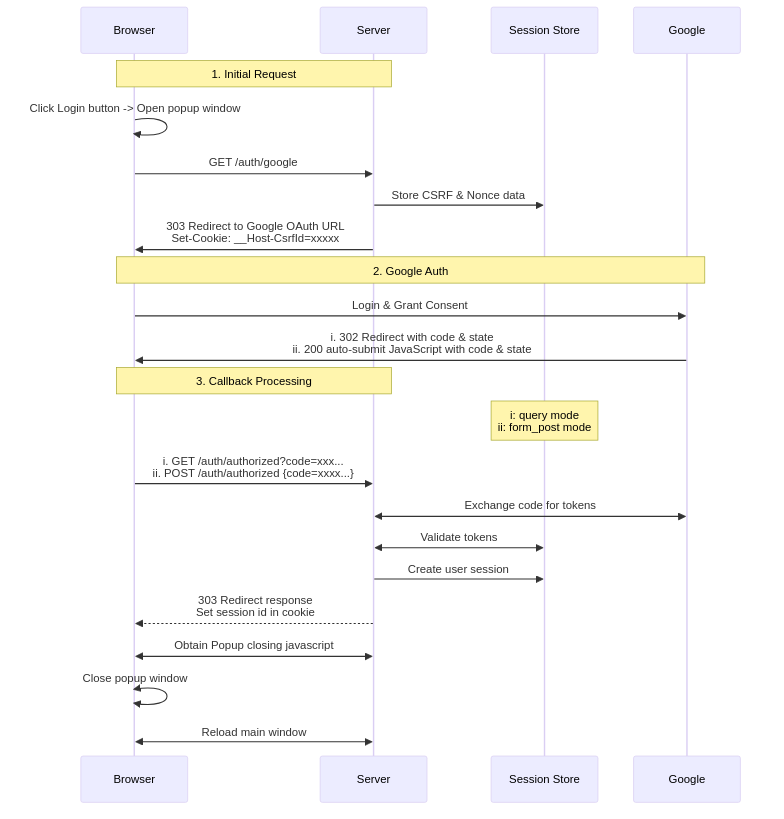
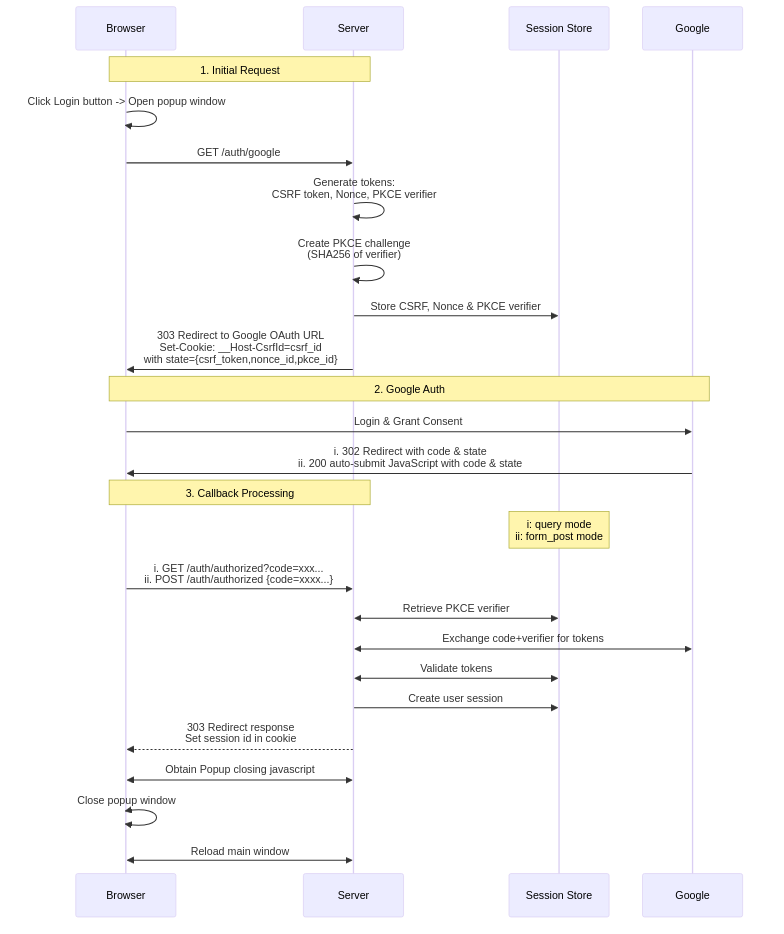
Reflected PKCE integration

diff --git a/2024/Axum-Google-OAuth2-Login/Readme.en.html b/2024/Axum-Google-OAuth2-Login/Readme.en.html
@@ -23,6 +23,7 @@ Callback</a></li>
 <ul>
 <li><a href="#nonce-validation">Nonce Validation</a></li>
 <li><a href="#csrf-protection">CSRF Protection</a></li>
+<li><a href="#pkce-validation">PKCE Validation</a></li>
 <li><a href="#cookie-security">Cookie Security</a></li>
 <li><a href="#response-mode-security">Response Mode Security</a></li>
 <li><a
@@ -112,6 +113,9 @@ URLs.</li>
 <li><strong><code>scope</code></strong>: Requested <code>openid</code>,
 <code>email</code>, and <code>profile</code> for user identity and basic
 information.</li>
+<li><strong><code>code_challenge</code></strong> and
+<strong><code>code_challenge_method</code></strong>: Implements PKCE for
+secure code exchange.</li>
 </ul>
 <p>These parameters are essential for controlling the authentication
 flow and ensuring security.</p>
@@ -184,42 +188,57 @@ class="sourceCode rust"><code class="sourceCode rust"><span id="cb5-1"><a href="
 <span id="cb5-4"><a href="#cb5-4" aria-hidden="true" tabindex="-1"></a>    headers<span class="op">:</span> HeaderMap<span class="op">,</span></span>
 <span id="cb5-5"><a href="#cb5-5" aria-hidden="true" tabindex="-1"></a>) <span class="op">-&gt;</span> <span class="dt">Result</span><span class="op">&lt;</span><span class="kw">impl</span> IntoResponse<span class="op">,</span> AppError<span class="op">&gt;</span> <span class="op">{</span></span>
 <span id="cb5-6"><a href="#cb5-6" aria-hidden="true" tabindex="-1"></a>    <span class="co">// Generate and store security tokens</span></span>
-<span id="cb5-7"><a href="#cb5-7" aria-hidden="true" tabindex="-1"></a>    <span class="kw">let</span> (csrf_token<span class="op">,</span> csrf_id) <span class="op">=</span> generate_store_token(<span class="st">&quot;csrf_session&quot;</span><span class="op">,</span> expires_at<span class="op">,</span> <span class="cn">Some</span>(user_agent))<span class="op">;</span></span>
-<span id="cb5-8"><a href="#cb5-8" aria-hidden="true" tabindex="-1"></a>    <span class="kw">let</span> (nonce_token<span class="op">,</span> nonce_id) <span class="op">=</span> generate_store_token(<span class="st">&quot;nonce_session&quot;</span><span class="op">,</span> expires_at<span class="op">,</span> <span class="cn">None</span>)<span class="op">;</span></span>
-<span id="cb5-9"><a href="#cb5-9" aria-hidden="true" tabindex="-1"></a></span>
-<span id="cb5-10"><a href="#cb5-10" aria-hidden="true" tabindex="-1"></a>    <span class="co">// Combine tokens into a state parameter</span></span>
-<span id="cb5-11"><a href="#cb5-11" aria-hidden="true" tabindex="-1"></a>    <span class="kw">let</span> encoded_state <span class="op">=</span> encode_state(csrf_token<span class="op">,</span> nonce_id)<span class="op">;</span></span>
-<span id="cb5-12"><a href="#cb5-12" aria-hidden="true" tabindex="-1"></a></span>
-<span id="cb5-13"><a href="#cb5-13" aria-hidden="true" tabindex="-1"></a>    <span class="co">// Construct the Google OAuth2 URL with required parameters</span></span>
-<span id="cb5-14"><a href="#cb5-14" aria-hidden="true" tabindex="-1"></a>    <span class="kw">let</span> auth_url <span class="op">=</span> <span class="pp">format!</span>(</span>
-<span id="cb5-15"><a href="#cb5-15" aria-hidden="true" tabindex="-1"></a>        <span class="st">&quot;{}?{}&amp;client_id={}&amp;redirect_uri={}&amp;state={}&amp;nonce={}&quot;</span><span class="op">,</span></span>
-<span id="cb5-16"><a href="#cb5-16" aria-hidden="true" tabindex="-1"></a>        OAUTH2_AUTH_URL<span class="op">,</span>         <span class="co">// e.g., https://accounts.google.com/o/oauth2/v2/auth</span></span>
-<span id="cb5-17"><a href="#cb5-17" aria-hidden="true" tabindex="-1"></a>        OAUTH2_QUERY_STRING<span class="op">,</span>     <span class="co">// e.g., response_type=code&amp;scope=openid+email+profile...</span></span>
-<span id="cb5-18"><a href="#cb5-18" aria-hidden="true" tabindex="-1"></a>        params<span class="op">.</span>client_id<span class="op">,</span></span>
-<span id="cb5-19"><a href="#cb5-19" aria-hidden="true" tabindex="-1"></a>        params<span class="op">.</span>redirect_uri<span class="op">,</span></span>
-<span id="cb5-20"><a href="#cb5-20" aria-hidden="true" tabindex="-1"></a>        encoded_state<span class="op">,</span></span>
-<span id="cb5-21"><a href="#cb5-21" aria-hidden="true" tabindex="-1"></a>        nonce_token</span>
-<span id="cb5-22"><a href="#cb5-22" aria-hidden="true" tabindex="-1"></a>    )<span class="op">;</span></span>
-<span id="cb5-23"><a href="#cb5-23" aria-hidden="true" tabindex="-1"></a></span>
-<span id="cb5-24"><a href="#cb5-24" aria-hidden="true" tabindex="-1"></a>    <span class="co">// Set security cookie and prepare the redirect response</span></span>
-<span id="cb5-25"><a href="#cb5-25" aria-hidden="true" tabindex="-1"></a>    <span class="kw">let</span> <span class="kw">mut</span> headers <span class="op">=</span> <span class="pp">HeaderMap::</span>new()<span class="op">;</span></span>
-<span id="cb5-26"><a href="#cb5-26" aria-hidden="true" tabindex="-1"></a>    header_set_cookie(<span class="op">&amp;</span><span class="kw">mut</span> headers<span class="op">,</span> CSRF_COOKIE_NAME<span class="op">,</span> csrf_id<span class="op">,</span> expires_at)<span class="op">?;</span></span>
-<span id="cb5-27"><a href="#cb5-27" aria-hidden="true" tabindex="-1"></a></span>
-<span id="cb5-28"><a href="#cb5-28" aria-hidden="true" tabindex="-1"></a>    <span class="cn">Ok</span>((headers<span class="op">,</span> <span class="pp">Redirect::</span>to(<span class="op">&amp;</span>auth_url)))</span>
-<span id="cb5-29"><a href="#cb5-29" aria-hidden="true" tabindex="-1"></a><span class="op">}</span></span></code></pre></div>
+<span id="cb5-7"><a href="#cb5-7" aria-hidden="true" tabindex="-1"></a>    <span class="kw">let</span> (csrf_token<span class="op">,</span> csrf_id) <span class="op">=</span></span>
+<span id="cb5-8"><a href="#cb5-8" aria-hidden="true" tabindex="-1"></a>        generate_store_token(<span class="st">&quot;csrf_session&quot;</span><span class="op">,</span> expires_at<span class="op">,</span> <span class="cn">Some</span>(user_agent)<span class="op">,</span> <span class="op">&amp;</span>store)<span class="op">.</span><span class="kw">await</span><span class="op">?;</span></span>
+<span id="cb5-9"><a href="#cb5-9" aria-hidden="true" tabindex="-1"></a>    <span class="kw">let</span> (nonce_token<span class="op">,</span> nonce_id) <span class="op">=</span></span>
+<span id="cb5-10"><a href="#cb5-10" aria-hidden="true" tabindex="-1"></a>        generate_store_token(<span class="st">&quot;nonce_session&quot;</span><span class="op">,</span> expires_at<span class="op">,</span> <span class="cn">None</span><span class="op">,</span> <span class="op">&amp;</span>store)<span class="op">.</span><span class="kw">await</span><span class="op">?;</span></span>
+<span id="cb5-11"><a href="#cb5-11" aria-hidden="true" tabindex="-1"></a>    <span class="kw">let</span> (pkce_token<span class="op">,</span> pkce_id) <span class="op">=</span></span>
+<span id="cb5-12"><a href="#cb5-12" aria-hidden="true" tabindex="-1"></a>        generate_store_token(<span class="st">&quot;pkce_session&quot;</span><span class="op">,</span> expires_at<span class="op">,</span> <span class="cn">None</span><span class="op">,</span> <span class="op">&amp;</span>store)<span class="op">.</span><span class="kw">await</span><span class="op">?;</span></span>
+<span id="cb5-13"><a href="#cb5-13" aria-hidden="true" tabindex="-1"></a></span>
+<span id="cb5-14"><a href="#cb5-14" aria-hidden="true" tabindex="-1"></a>    <span class="co">// Generate PKCE challenge</span></span>
+<span id="cb5-15"><a href="#cb5-15" aria-hidden="true" tabindex="-1"></a>    <span class="kw">let</span> pkce_challenge <span class="op">=</span> URL_SAFE_NO_PAD<span class="op">.</span>encode(</span>
+<span id="cb5-16"><a href="#cb5-16" aria-hidden="true" tabindex="-1"></a>        <span class="pp">Sha256::</span>digest(pkce_token<span class="op">.</span>as_bytes())</span>
+<span id="cb5-17"><a href="#cb5-17" aria-hidden="true" tabindex="-1"></a>    )<span class="op">;</span></span>
+<span id="cb5-18"><a href="#cb5-18" aria-hidden="true" tabindex="-1"></a></span>
+<span id="cb5-19"><a href="#cb5-19" aria-hidden="true" tabindex="-1"></a>    <span class="co">// Combine tokens into a state parameter</span></span>
+<span id="cb5-20"><a href="#cb5-20" aria-hidden="true" tabindex="-1"></a>    <span class="kw">let</span> encoded_state <span class="op">=</span> encode_state(csrf_token<span class="op">,</span> nonce_id<span class="op">,</span> pkce_id)<span class="op">;</span></span>
+<span id="cb5-21"><a href="#cb5-21" aria-hidden="true" tabindex="-1"></a></span>
+<span id="cb5-22"><a href="#cb5-22" aria-hidden="true" tabindex="-1"></a>    <span class="co">// Construct the Google OAuth2 URL with required parameters</span></span>
+<span id="cb5-23"><a href="#cb5-23" aria-hidden="true" tabindex="-1"></a>    <span class="kw">let</span> auth_url <span class="op">=</span> <span class="pp">format!</span>(</span>
+<span id="cb5-24"><a href="#cb5-24" aria-hidden="true" tabindex="-1"></a>        <span class="st">&quot;{}?{}&amp;client_id={}&amp;redirect_uri={}&amp;state={}&amp;nonce={}&amp;code_challenge={}&amp;code_challenge_method=S256&quot;</span><span class="op">,</span></span>
+<span id="cb5-25"><a href="#cb5-25" aria-hidden="true" tabindex="-1"></a>        OAUTH2_AUTH_URL<span class="op">,</span>         <span class="co">// e.g., https://accounts.google.com/o/oauth2/v2/auth</span></span>
+<span id="cb5-26"><a href="#cb5-26" aria-hidden="true" tabindex="-1"></a>        OAUTH2_QUERY_STRING<span class="op">,</span>     <span class="co">// e.g., response_type=code&amp;scope=openid+email+profile...</span></span>
+<span id="cb5-27"><a href="#cb5-27" aria-hidden="true" tabindex="-1"></a>        params<span class="op">.</span>client_id<span class="op">,</span></span>
+<span id="cb5-28"><a href="#cb5-28" aria-hidden="true" tabindex="-1"></a>        params<span class="op">.</span>redirect_uri<span class="op">,</span></span>
+<span id="cb5-29"><a href="#cb5-29" aria-hidden="true" tabindex="-1"></a>        encoded_state<span class="op">,</span></span>
+<span id="cb5-30"><a href="#cb5-30" aria-hidden="true" tabindex="-1"></a>        nonce_token<span class="op">,</span></span>
+<span id="cb5-31"><a href="#cb5-31" aria-hidden="true" tabindex="-1"></a>        pkce_challenge<span class="op">,</span></span>
+<span id="cb5-32"><a href="#cb5-32" aria-hidden="true" tabindex="-1"></a>    )<span class="op">;</span></span>
+<span id="cb5-33"><a href="#cb5-33" aria-hidden="true" tabindex="-1"></a></span>
+<span id="cb5-34"><a href="#cb5-34" aria-hidden="true" tabindex="-1"></a>    <span class="co">// Set security cookie and prepare the redirect response</span></span>
+<span id="cb5-35"><a href="#cb5-35" aria-hidden="true" tabindex="-1"></a>    <span class="kw">let</span> <span class="kw">mut</span> headers <span class="op">=</span> <span class="pp">HeaderMap::</span>new()<span class="op">;</span></span>
+<span id="cb5-36"><a href="#cb5-36" aria-hidden="true" tabindex="-1"></a>    header_set_cookie(<span class="op">&amp;</span><span class="kw">mut</span> headers<span class="op">,</span> CSRF_COOKIE_NAME<span class="op">,</span> csrf_id<span class="op">,</span> expires_at)<span class="op">?;</span></span>
+<span id="cb5-37"><a href="#cb5-37" aria-hidden="true" tabindex="-1"></a></span>
+<span id="cb5-38"><a href="#cb5-38" aria-hidden="true" tabindex="-1"></a>    <span class="cn">Ok</span>((headers<span class="op">,</span> <span class="pp">Redirect::</span>to(<span class="op">&amp;</span>auth_url)))</span>
+<span id="cb5-39"><a href="#cb5-39" aria-hidden="true" tabindex="-1"></a><span class="op">}</span></span></code></pre></div>
 <h4 id="state-parameter">State Parameter</h4>
 <p>The state parameter combines:</p>
 <ul>
 <li>CSRF token: Protects against cross-site request forgery.</li>
 <li>Nonce ID: Validates the ID token’s authenticity.</li>
+<li>PKCE ID: Identifies the PKCE verifier of the request</li>
 <li>Base64URL encoding: Embeds multiple parameters in a URL safe single
 parameter.</li>
 </ul>
 <div class="sourceCode" id="cb6"><pre
-class="sourceCode rust"><code class="sourceCode rust"><span id="cb6-1"><a href="#cb6-1" aria-hidden="true" tabindex="-1"></a><span class="kw">fn</span> encode_state(csrf_token<span class="op">:</span> <span class="dt">String</span><span class="op">,</span> nonce_id<span class="op">:</span> <span class="dt">String</span>) <span class="op">-&gt;</span> <span class="dt">String</span> <span class="op">{</span></span>
-<span id="cb6-2"><a href="#cb6-2" aria-hidden="true" tabindex="-1"></a>    <span class="kw">let</span> state_params <span class="op">=</span> StateParams <span class="op">{</span> csrf_token<span class="op">,</span> nonce_id <span class="op">};</span></span>
-<span id="cb6-3"><a href="#cb6-3" aria-hidden="true" tabindex="-1"></a>    URL_SAFE<span class="op">.</span>encode(<span class="pp">serde_json::json!</span>(state_params)<span class="op">.</span>to_string())</span>
-<span id="cb6-4"><a href="#cb6-4" aria-hidden="true" tabindex="-1"></a><span class="op">}</span></span></code></pre></div>
+class="sourceCode rust"><code class="sourceCode rust"><span id="cb6-1"><a href="#cb6-1" aria-hidden="true" tabindex="-1"></a><span class="kw">fn</span> encode_state(csrf_token<span class="op">:</span> <span class="dt">String</span><span class="op">,</span> nonce_id<span class="op">:</span> <span class="dt">String</span><span class="op">,</span> pkce_id<span class="op">:</span> <span class="dt">String</span>) <span class="op">-&gt;</span> <span class="dt">String</span> <span class="op">{</span></span>
+<span id="cb6-2"><a href="#cb6-2" aria-hidden="true" tabindex="-1"></a>    <span class="kw">let</span> state_params <span class="op">=</span> StateParams <span class="op">{</span> </span>
+<span id="cb6-3"><a href="#cb6-3" aria-hidden="true" tabindex="-1"></a>        csrf_token<span class="op">,</span> </span>
+<span id="cb6-4"><a href="#cb6-4" aria-hidden="true" tabindex="-1"></a>        nonce_id<span class="op">,</span></span>
+<span id="cb6-5"><a href="#cb6-5" aria-hidden="true" tabindex="-1"></a>        pkce_id </span>
+<span id="cb6-6"><a href="#cb6-6" aria-hidden="true" tabindex="-1"></a>    <span class="op">};</span></span>
+<span id="cb6-7"><a href="#cb6-7" aria-hidden="true" tabindex="-1"></a>    URL_SAFE<span class="op">.</span>encode(<span class="pp">serde_json::json!</span>(state_params)<span class="op">.</span>to_string())</span>
+<span id="cb6-8"><a href="#cb6-8" aria-hidden="true" tabindex="-1"></a><span class="op">}</span></span></code></pre></div>
 <p>Google preserves and returns this state parameter unchanged, enabling
 security validations in the callback.</p>
 <h3 id="handling-oauth2-callback">Handling OAuth2 Callback</h3>
@@ -312,6 +331,8 @@ class="sourceCode rust"><code class="sourceCode rust"><span id="cb11-1"><a href=
 <span id="cb11-18"><a href="#cb11-18" aria-hidden="true" tabindex="-1"></a>        <span class="cn">Ok</span>(user)</span>
 <span id="cb11-19"><a href="#cb11-19" aria-hidden="true" tabindex="-1"></a>    <span class="op">}</span></span>
 <span id="cb11-20"><a href="#cb11-20" aria-hidden="true" tabindex="-1"></a><span class="op">}</span></span></code></pre></div>
+<p>Having covered the implementation details, let’s examine the security
+mechanisms that protect our authentication flow.</p>
 <h2 id="security-considerations">Security Considerations</h2>
 <p>Our authentication implementation relies on several security
 mechanisms working together. Since we use ID token claims for
@@ -367,10 +388,48 @@ from Google’s domain</li>
 <p>This combination ensures that only Google can respond to our original
 authentication request, preventing any malicious sites from initiating
 or hijacking the authentication flow.</p>
+<h3 id="pkce-validation">PKCE Validation</h3>
+<p>PKCE (Proof Key for Code Exchange) is a security extension to OAuth
+2.0 that protects authorization codes from being intercepted or
+injected. Unlike CSRF and nonce validation which protect the
+authentication flow, PKCE specifically secures the code exchange
+process.</p>
+<p>PKCE ensures that only the client that initiated the authentication
+flow can exchange the authorization code for tokens:</p>
+<p><a href="https://raw.githubusercontent.com/ktaka-ccmp/ktaka.blog.ccmp.jp/master/2024/Axum-Google-OAuth2-Login/image/fig-5.png"
+    target="_blank">
+    <img src="https://raw.githubusercontent.com/ktaka-ccmp/ktaka.blog.ccmp.jp/master/2024/Axum-Google-OAuth2-Login/image/fig-5.png"
+    width="80%" alt="basic-authentication-flow" title="basic-authentication-flow"> </a></p>
+<p>The implementation generates a random verifier and creates a
+challenge using SHA-256:</p>
+<div class="sourceCode" id="cb15"><pre
+class="sourceCode rust"><code class="sourceCode rust"><span id="cb15-1"><a href="#cb15-1" aria-hidden="true" tabindex="-1"></a><span class="kw">let</span> (pkce_token<span class="op">,</span> pkce_id) <span class="op">=</span> generate_store_token(<span class="st">&quot;pkce_session&quot;</span><span class="op">,</span> expires_at<span class="op">,</span> <span class="cn">None</span><span class="op">,</span> <span class="op">&amp;</span>store)<span class="op">.</span><span class="kw">await</span><span class="op">?;</span></span>
+<span id="cb15-2"><a href="#cb15-2" aria-hidden="true" tabindex="-1"></a><span class="kw">let</span> pkce_challenge <span class="op">=</span> URL_SAFE_NO_PAD<span class="op">.</span>encode(<span class="pp">Sha256::</span>digest(pkce_token<span class="op">.</span>as_bytes()))<span class="op">;</span></span></code></pre></div>
+<p>When exchanging the code for tokens, we include the original
+verifier:</p>
+<div class="sourceCode" id="cb16"><pre
+class="sourceCode rust"><code class="sourceCode rust"><span id="cb16-1"><a href="#cb16-1" aria-hidden="true" tabindex="-1"></a><span class="kw">async</span> <span class="kw">fn</span> exchange_code_for_token(</span>
+<span id="cb16-2"><a href="#cb16-2" aria-hidden="true" tabindex="-1"></a>    params<span class="op">:</span> OAuth2Params<span class="op">,</span></span>
+<span id="cb16-3"><a href="#cb16-3" aria-hidden="true" tabindex="-1"></a>    code<span class="op">:</span> <span class="dt">String</span><span class="op">,</span></span>
+<span id="cb16-4"><a href="#cb16-4" aria-hidden="true" tabindex="-1"></a>    code_verifier<span class="op">:</span> <span class="dt">String</span><span class="op">,</span>  <span class="co">// Original PKCE verifier</span></span>
+<span id="cb16-5"><a href="#cb16-5" aria-hidden="true" tabindex="-1"></a>) <span class="op">-&gt;</span> <span class="dt">Result</span><span class="op">&lt;</span>(<span class="dt">String</span><span class="op">,</span> <span class="dt">String</span>)<span class="op">,</span> AppError<span class="op">&gt;</span> <span class="op">{</span></span>
+<span id="cb16-6"><a href="#cb16-6" aria-hidden="true" tabindex="-1"></a>    <span class="kw">let</span> response <span class="op">=</span> <span class="pp">reqwest::Client::</span>new()</span>
+<span id="cb16-7"><a href="#cb16-7" aria-hidden="true" tabindex="-1"></a>        <span class="op">.</span>post(params<span class="op">.</span>token_url)</span>
+<span id="cb16-8"><a href="#cb16-8" aria-hidden="true" tabindex="-1"></a>        <span class="op">.</span>form(<span class="op">&amp;</span>[</span>
+<span id="cb16-9"><a href="#cb16-9" aria-hidden="true" tabindex="-1"></a>            <span class="co">// Other parameters...</span></span>
+<span id="cb16-10"><a href="#cb16-10" aria-hidden="true" tabindex="-1"></a>            (<span class="st">&quot;code_verifier&quot;</span><span class="op">,</span> code_verifier)<span class="op">,</span></span>
+<span id="cb16-11"><a href="#cb16-11" aria-hidden="true" tabindex="-1"></a>        ])</span></code></pre></div>
+<p>This mechanism prevents:</p>
+<ul>
+<li>Authorization code interception</li>
+<li>Code injection attempts</li>
+<li>Replay attacks</li>
+<li>Man-in-the-middle attacks during code exchange</li>
+</ul>
 <h3 id="cookie-security">Cookie Security</h3>
 <p>All cookies use comprehensive security settings:</p>
-<div class="sourceCode" id="cb14"><pre
-class="sourceCode rust"><code class="sourceCode rust"><span id="cb14-1"><a href="#cb14-1" aria-hidden="true" tabindex="-1"></a><span class="st">&quot;{name}={value}; SameSite=Lax; Secure; HttpOnly; Path=/; Max-Age={max_age}&quot;</span></span></code></pre></div>
+<div class="sourceCode" id="cb17"><pre
+class="sourceCode rust"><code class="sourceCode rust"><span id="cb17-1"><a href="#cb17-1" aria-hidden="true" tabindex="-1"></a><span class="st">&quot;{name}={value}; SameSite=Lax; Secure; HttpOnly; Path=/; Max-Age={max_age}&quot;</span></span></code></pre></div>
 <ul>
 <li><strong><code>HttpOnly:</code></strong> Prevents JavaScript access
 to cookies.</li>
@@ -432,8 +491,13 @@ data</li>
 OAuth2/OIDC authentication system with Axum. While implementing auth can
 be complex, breaking it down into manageable components helped create a
 system that’s both secure and maintainable. The code demonstrates
-practical patterns for token validation, CSRF protection, and session
-management that you might find useful in your own projects.</p>
+practical patterns that you might find useful in your own projects
+for:</p>
+<ul>
+<li>Token validation and CSRF protection</li>
+<li>PKCE implementation for code exchange security</li>
+<li>Comprehensive session management</li>
+</ul>
 <p>I’ve posted the complete implementation on <a
 href="https://github.com/ktaka-ccmp/axum-google-oauth2">GitHub</a>. Take
 a look if you’re interested in the implementation details - I’m

diff --git a/2024/Axum-Google-OAuth2-Login/Readme.en.md b/2024/Axum-Google-OAuth2-Login/Readme.en.md
@@ -14,6 +14,7 @@
 - [Security Considerations](#security-considerations)
   - [Nonce Validation](#nonce-validation)
   - [CSRF Protection](#csrf-protection)
+  - [PKCE Validation](#pkce-validation)
   - [Cookie Security](#cookie-security)
   - [Response Mode Security](#response-mode-security)
   - [Authentication with Authorization Code Flow](#authentication-with-authorization-code-flow)
@@ -85,6 +86,7 @@ OAuth2 and OIDC define several parameters critical to the authentication process
 - **`response_type`**: Set to `code`, as it securely delivers an authorization code.
 - **`response_mode`**: Used `form_post` for better security by avoiding sensitive data in URLs.
 - **`scope`**: Requested `openid`, `email`, and `profile` for user identity and basic information.
+- **`code_challenge`** and **`code_challenge_method`**: Implements PKCE for secure code exchange.
 
 These parameters are essential for controlling the authentication flow and ensuring security.
 
@@ -100,7 +102,7 @@ Our implementation uses a popup window for authentication to keep the main page 
 - Maintains login state using shared cookies across the windows
 - Updates the main page automatically when complete
 
-The flow coordinates between four components: browser, server, Google, and session store. The session store manages login sessions and security tokens (CSRF and nonce).
+The flow coordinates between four components: browser, server, Google, and session store. The session store manages login sessions and security tokens (CSRF, nonce, PKCE verifier).
 
 ```mermaid
 sequenceDiagram
@@ -112,8 +114,11 @@ sequenceDiagram
     Note over Browser,Server: 1. Initial Request
     Browser->>Browser: Click Login button -> Open popup window
     Browser->>Server: GET /auth/google
-    Server->>Session Store: Store CSRF & Nonce data
-    Server->>Browser: 303 Redirect to Google OAuth URL<br/>Set-Cookie: __Host-CsrfId=xxxxx
+    Server->>Server: Generate tokens:<br/>CSRF token, Nonce, PKCE verifier
+    Server->>Server: Create PKCE challenge<br/>(SHA256 of verifier)
+
+    Server->>Session Store: Store CSRF, Nonce & PKCE verifier
+    Server->>Browser: 303 Redirect to Google OAuth URL<br/>Set-Cookie: __Host-CsrfId=csrf_id<br/>with state={csrf_token,nonce_id,pkce_id}
 
     Note over Browser,Google: 2. Google Auth
     Browser->>Google: Login & Grant Consent
@@ -122,7 +127,8 @@ sequenceDiagram
     Note over Browser,Server: 3. Callback Processing
     Note over Session Store: i: query mode<br/>ii: form_post mode
     Browser->>Server: i. GET /auth/authorized?code=xxx...<br/>ii. POST /auth/authorized {code=xxxx...}
-    Server<<->>Google: Exchange code for tokens
+    Server<<->>Session Store: Retrieve PKCE verifier
+    Server<<->>Google: Exchange code+verifier for tokens
     Server<<->>Session Store: Validate tokens
     Server->>Session Store: Create user session
     Server-->>Browser: 303 Redirect response<br/>Set session id in cookie
@@ -186,21 +192,31 @@ async fn google_auth(
     headers: HeaderMap,
 ) -> Result<impl IntoResponse, AppError> {
     // Generate and store security tokens
-    let (csrf_token, csrf_id) = generate_store_token("csrf_session", expires_at, Some(user_agent));
-    let (nonce_token, nonce_id) = generate_store_token("nonce_session", expires_at, None);
+    let (csrf_token, csrf_id) =
+        generate_store_token("csrf_session", expires_at, Some(user_agent), &store).await?;
+    let (nonce_token, nonce_id) =
+        generate_store_token("nonce_session", expires_at, None, &store).await?;
+    let (pkce_token, pkce_id) =
+        generate_store_token("pkce_session", expires_at, None, &store).await?;
+
+    // Generate PKCE challenge
+    let pkce_challenge = URL_SAFE_NO_PAD.encode(
+        Sha256::digest(pkce_token.as_bytes())
+    );
 
     // Combine tokens into a state parameter
-    let encoded_state = encode_state(csrf_token, nonce_id);
+    let encoded_state = encode_state(csrf_token, nonce_id, pkce_id);
 
     // Construct the Google OAuth2 URL with required parameters
     let auth_url = format!(
-        "{}?{}&client_id={}&redirect_uri={}&state={}&nonce={}",
+        "{}?{}&client_id={}&redirect_uri={}&state={}&nonce={}&code_challenge={}&code_challenge_method=S256",
         OAUTH2_AUTH_URL,         // e.g., https://accounts.google.com/o/oauth2/v2/auth
         OAUTH2_QUERY_STRING,     // e.g., response_type=code&scope=openid+email+profile...
         params.client_id,
         params.redirect_uri,
         encoded_state,
-        nonce_token
+        nonce_token,
+        pkce_challenge,
     );
 
     // Set security cookie and prepare the redirect response
@@ -217,11 +233,16 @@ The state parameter combines:
 
 - CSRF token: Protects against cross-site request forgery.
 - Nonce ID: Validates the ID token’s authenticity.
+- PKCE ID: Identifies the PKCE verifier of the request
 - Base64URL encoding: Embeds multiple parameters in a URL safe single parameter.
 
 ```rust
-fn encode_state(csrf_token: String, nonce_id: String) -> String {
-    let state_params = StateParams { csrf_token, nonce_id };
+fn encode_state(csrf_token: String, nonce_id: String, pkce_id: String) -> String {
+    let state_params = StateParams { 
+        csrf_token, 
+        nonce_id,
+        pkce_id 
+    };
     URL_SAFE.encode(serde_json::json!(state_params).to_string())
 }
 ```
@@ -325,6 +346,8 @@ where
 }
 ```
 
+Having covered the implementation details, let's examine the security mechanisms that protect our authentication flow.
+
 ## Security Considerations
 
 Our authentication implementation relies on several security mechanisms working together. Since we use ID token claims for authentication, these mechanisms focus on protecting the authentication process and verifying token authenticity.
@@ -402,6 +425,64 @@ Instead, we rely on two security measures:
 
 This combination ensures that only Google can respond to our original authentication request, preventing any malicious sites from initiating or hijacking the authentication flow.
 
+### PKCE Validation
+
+PKCE (Proof Key for Code Exchange) is a security extension to OAuth 2.0 that protects authorization codes from being intercepted or injected. Unlike CSRF and nonce validation which protect the authentication flow, PKCE specifically secures the code exchange process.
+
+PKCE ensures that only the client that initiated the authentication flow can exchange the authorization code for tokens:
+
+```mermaid
+sequenceDiagram
+    participant Browser
+    participant Server
+    participant Session Store
+    participant Google
+
+    Browser->>Server: Initial Request
+    Server->>Server: Generate PKCE verifier
+    Server->>Server: challenge = SHA256(verifier)
+    Server->>Session Store: Store {pkce_id: verifier}
+    Server->>Google: Auth request with:<br/>code_challenge=challenge<br/>code_challenge_method=S256
+    
+    Note over Google: Stores challenge
+    Google->>Browser: Return auth code
+    Browser->>Server: Send code + state(with pkce_id)
+    Server->>Session Store: Get verifier by pkce_id
+    Server->>Google: Exchange:<br/>code + code_verifier
+    Note over Google: Verify:<br/>SHA256(verifier) = challenge
+    Google->>Server: Return tokens if valid
+```
+
+The implementation generates a random verifier and creates a challenge using SHA-256:
+
+```rust
+let (pkce_token, pkce_id) = generate_store_token("pkce_session", expires_at, None, &store).await?;
+let pkce_challenge = URL_SAFE_NO_PAD.encode(Sha256::digest(pkce_token.as_bytes()));
+```
+
+When exchanging the code for tokens, we include the original verifier:
+
+```rust
+async fn exchange_code_for_token(
+    params: OAuth2Params,
+    code: String,
+    code_verifier: String,  // Original PKCE verifier
+) -> Result<(String, String), AppError> {
+    let response = reqwest::Client::new()
+        .post(params.token_url)
+        .form(&[
+            // Other parameters...
+            ("code_verifier", code_verifier),
+        ])
+```
+
+This mechanism prevents:
+
+- Authorization code interception
+- Code injection attempts
+- Replay attacks
+- Man-in-the-middle attacks during code exchange
+
 ### Cookie Security
 
 All cookies use comprehensive security settings:
@@ -454,6 +535,10 @@ While Google's userinfo endpoint provides similar data, we rely on ID token vali
 
 ## Conclusion
 
-In this implementation, I've walked through building a secure OAuth2/OIDC authentication system with Axum. While implementing auth can be complex, breaking it down into manageable components helped create a system that's both secure and maintainable. The code demonstrates practical patterns for token validation, CSRF protection, and session management that you might find useful in your own projects.
+In this implementation, I've walked through building a secure OAuth2/OIDC authentication system with Axum. While implementing auth can be complex, breaking it down into manageable components helped create a system that's both secure and maintainable. The code demonstrates practical patterns that you might find useful in your own projects for:
+
+- Token validation and CSRF protection
+- PKCE implementation for code exchange security
+- Comprehensive session management
 
 I've posted the complete implementation on [GitHub](https://github.com/ktaka-ccmp/axum-google-oauth2). Take a look if you're interested in the implementation details - I'm particularly curious about your thoughts on the security measures and session handling approach. If you spot any potential improvements or have questions about specific design choices, I'd love to hear your feedback!
